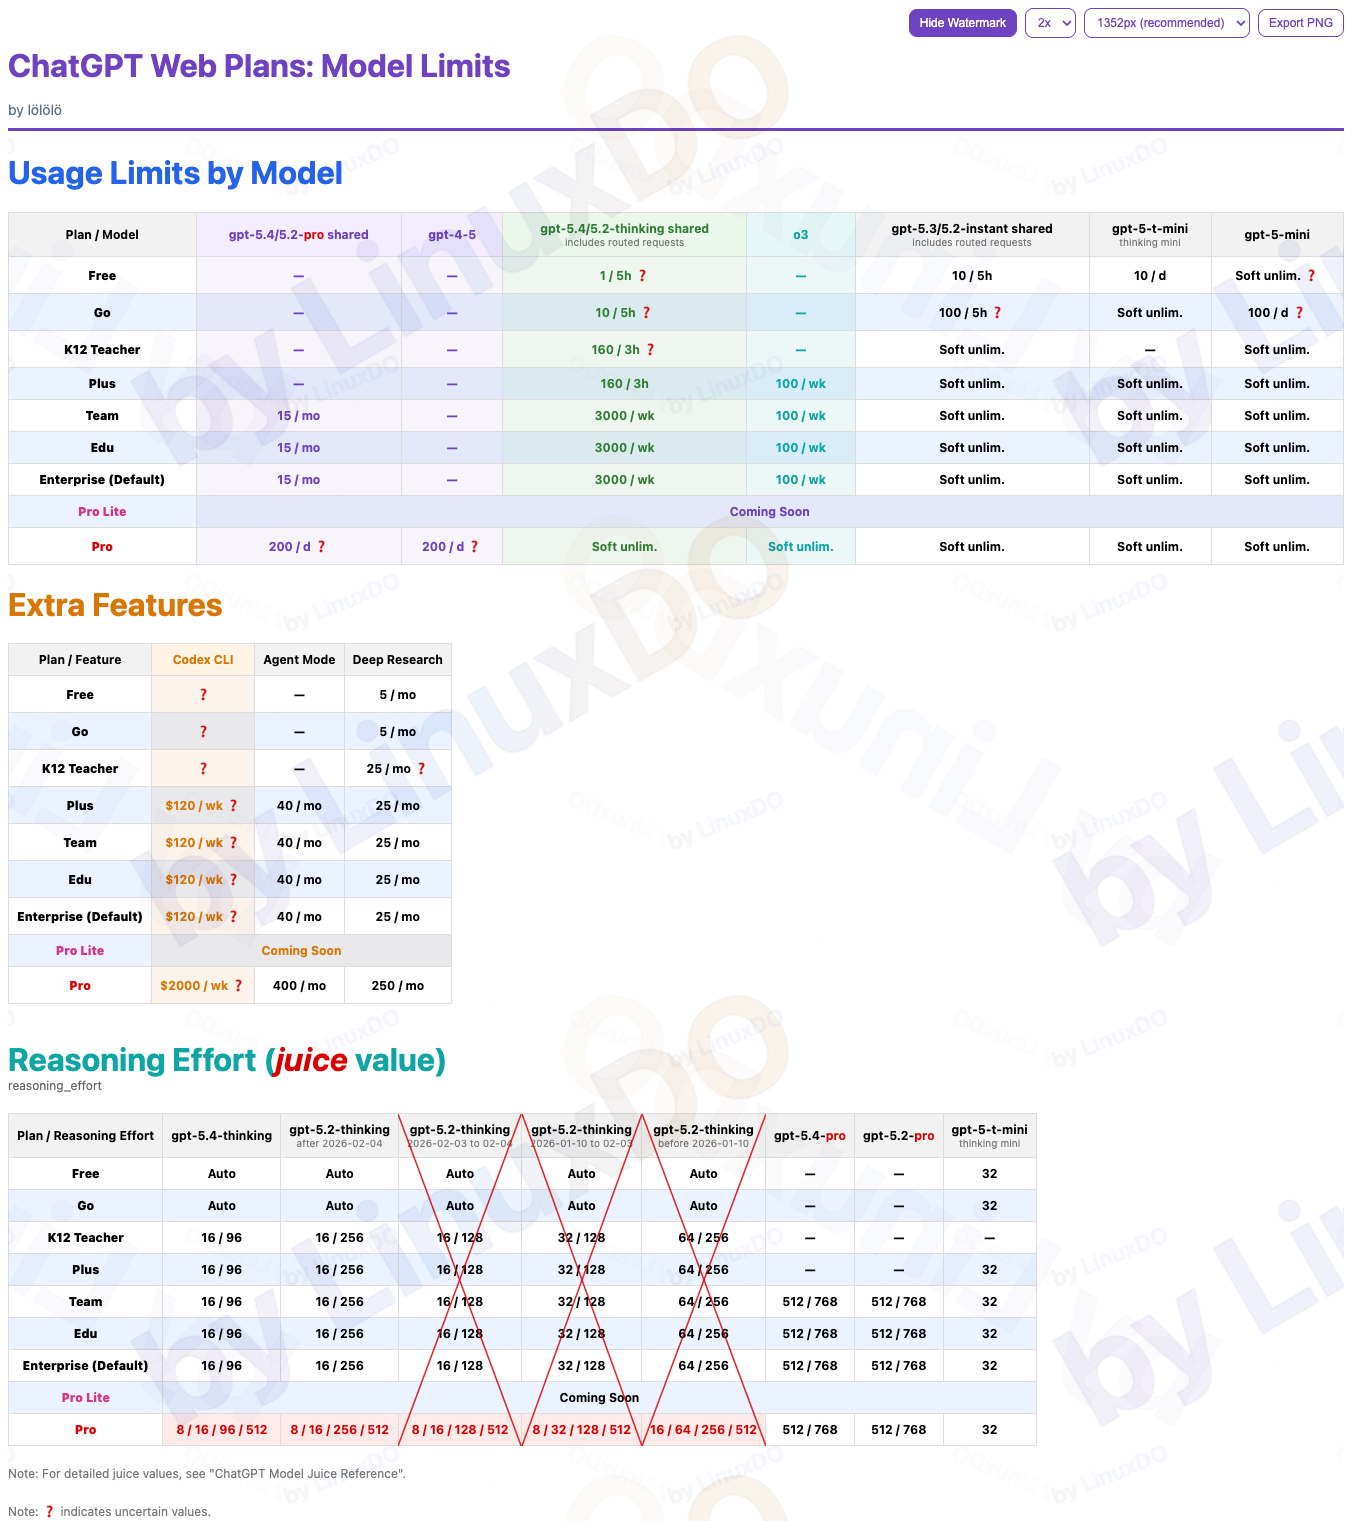
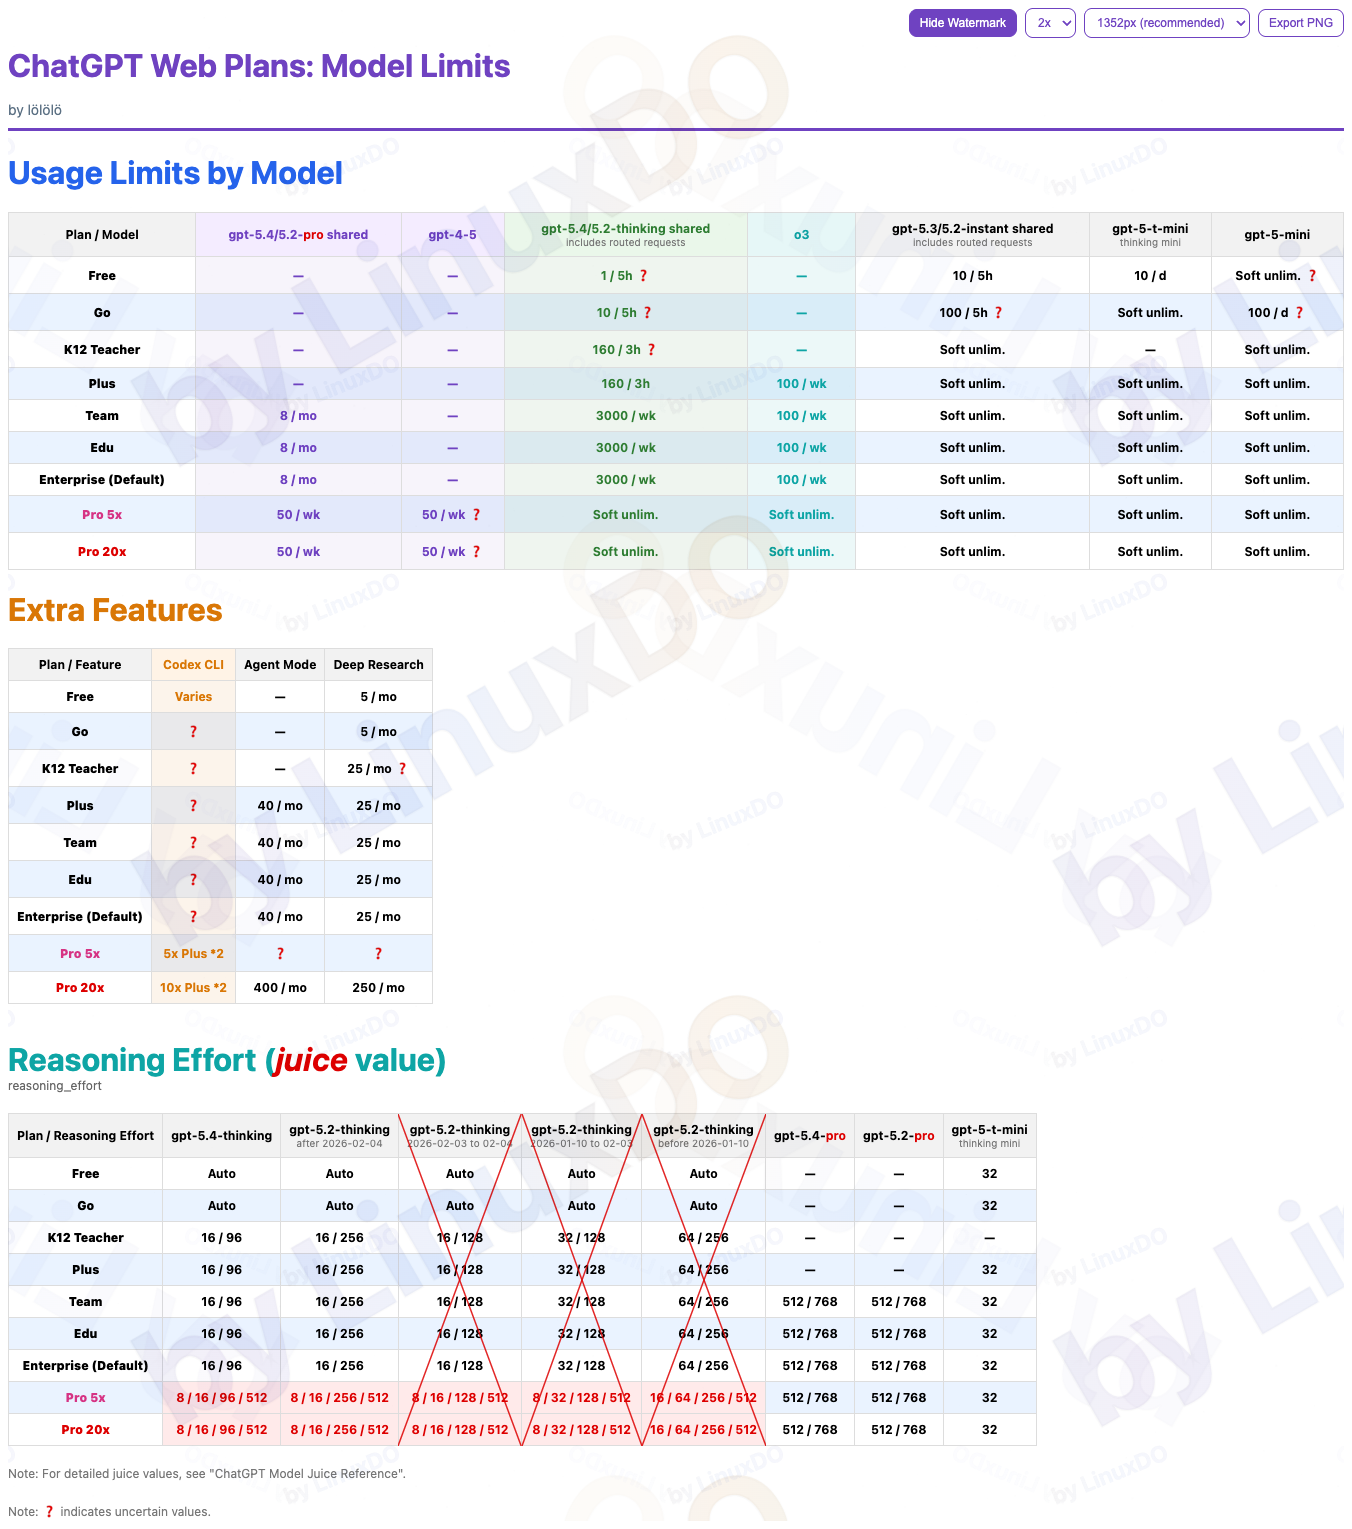
Update usage screenshots for 2026-04-14

diff --git a/README.md b/README.md
@@ -6,7 +6,7 @@ Maintenance rules for future GPT editors:
 2) The second line must stay as the Linux.Do website link.
 -->
 
-2026.03.08-1
+2026.04.14-1
 
 [Linux.Do](https://linux.do)
 
